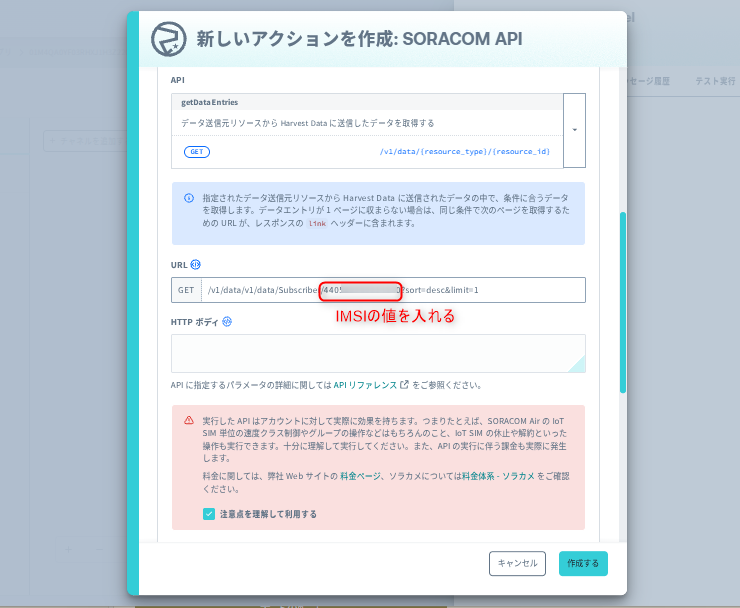
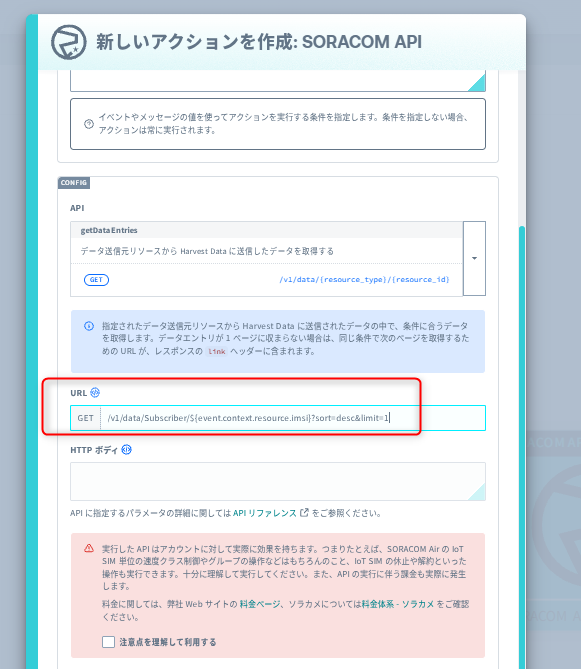
[modify] 最後まで作成

diff --git a/03-flux-app.md b/03-flux-app.md
@@ -95,9 +95,13 @@
 ## 3-2. AI アクションでご当地情報を生成する
 
 1. 3-1 で作成した `harvest-data-output` チャネルを開き、「アクション」タブから「＋アクションを追加」→ **AI アクション** を選択
-2. モデルを選択（テキスト生成ができるもの）
-3. **実行条件**：空のまま（どのクリックでも動かす）
-4. **プロンプト** を設定
+   ![AIアクションの追加1](./image/03-13.png)
+   ![AIアクションの追加2](./image/03-14.png)
+
+2. モデルを選択（例では`Amazon Bedrock – Amazon Nova Lite`を選択）
+   ![AIモデル](./image/03-15.png)
+
+3. **プロンプト** を設定
 
 ### プロンプト例
 
@@ -119,10 +123,18 @@
 - 全体で400文字以内
 - 確実でない情報は「〜と言われています」など断定しない表現にする
 - 余計な前置きは書かない
+- 改行は使わず、改行したい位置には「\n」という2文字を書く（全体を1行で出力する）
+- ダブルクォーテーション（"）は使わない
 ```
 
-5. **出力設定**：「結果を次のアクションに渡す」を有効にする（設定名は画面表記に合わせてください）
-6. 保存
+　　![プロント](./image/03-16.png)
+
+4. **OUTPUT** を以下のように設定する
+   - 「アクションのアウトプットを別のチャネルに送信する」：ON
+   - 送信先チャネル：「新しくチャネルを作成する」→ チャネル名 `ai-output`
+     ![出力指定](./image/03-17.png)
+
+5. 「作成する」をクリックして保存する
 
 > ✅ `${payload.lat}` / `${payload.lon}` は、3-1 の手順5で「データを変換する」に設定したキー名です。
 
@@ -130,7 +142,9 @@
 
 ## 3-3. Webhook アクションで Discord に投稿する
 
-1. AI アクションの後ろに **Webhook アクション** を追加
+1. 3-2 で作成した `ai-output` チャネルを開き、「アクション」タブから「＋アクションを追加」→ **Webhook アクション** を選択
+   ![Webhookアクション1](./image/03-18.png)
+   ![Webhookアクション2](./image/03-19.png)
 2. 以下のように設定
 
 | 項目     | 設定値                           |
@@ -144,33 +158,27 @@
 ```json
 {
   "username": "ご当地ボタン",
-  "content": "🔘 ボタンが押されました！\n\n${payload.output.message}"
+  "content": "🔘 ボタンが押されました！\n\n${payload.output.text}"
 }
 ```
 
-> ✅ AI アクションの出力がどの変数で参照できるかは、実行履歴で AI アクションの出力を見て確認し、`${payload.output.message}` の部分を読み替えてください。
+　![webhookの設定](./image/03-20.png)
+
+> ✅ AI アクションの出力は `{"output":{"text":"..."}, "usage":{...}}` の形で次のチャネルに届くため、生成された文章は `${payload.output.text}` で参照できます。
 >
-> ⚠ Discord の `content` は2000文字までです。プロンプトで文字数を制限しておくと安心です。また、AIの出力に `"` や改行が含まれるとJSONが壊れる場合があるので、うまく投稿されないときは実行履歴でリクエスト内容を確認しましょう。
+> ⚠ Discord の `content` は2000文字までです。プロンプトで文字数を制限しておくと安心です。
+>
+> ⚠ `${payload.output.text}` はそのままボディに埋め込まれるため、AI の出力に改行や `"` が含まれると JSON が壊れ、Discord から `400 The request body contains invalid JSON.` が返ります。3-2 のプロンプトで「改行の代わりに `\n` と書く」「`"` を使わない」と指示しているのはこのためです。エラーになった場合は、実行履歴で Webhook の入力（`body`）を確認しましょう。
 
 4. 保存
 
 ## 3-4. 動かしてみよう 🎉
 
-1. 白ボタンを押す（シングル・ダブル・長押しのどれでも OK）
+1. ボタンを押す（シングル・ダブル・長押しのどれでも OK）
 2. 数十秒ほど待つ
 3. Discord のチャンネルに、ご当地情報が投稿されれば成功！
-
-### 投稿イメージ
-
-```
-🔘 ボタンが押されました！
-
-📍 推定エリア：福岡県北九州市小倉北区
-🍜 ご当地グルメ：焼うどん（発祥の地と言われています）、ぬか炊き
-🏯 おすすめスポット：小倉城、旦過市場
-💡 ちょっとした豆知識：……
-```
+   ![投稿](./image/03-21.png)
 
 ---
 
-[← 2. SIM グループを設定して簡易位置測位を有効にする](./02-sim-group-location.md) ｜ [目次](./README.md) ｜ [7. うまくいかないときは →](./07-troubleshooting.md)
+[← 2. SIM グループを設定して簡易位置測位を有効にする](./02-sim-group-location.md) ｜ [目次](./README.md) ｜ [4. 後片付け →](./04-cleanup.md)

diff --git a/00-introduction.md b/00-introduction.md
@@ -26,18 +26,18 @@ SORACOM LTE-M Button（通称「白ボタン」）を押すと、ボタンのお
 
 ## 所要時間の目安
 
-約60〜90分
+約60分
 
 ## 事前準備
 
 ### 必要なもの
 
-| 項目       | 内容                                                                   |
-| ---------- | ---------------------------------------------------------------------- |
-| デバイス   | SORACOM LTE-M Button for Enterprise（白ボタン）※簡易位置測位対応モデル |
-| アカウント | SORACOM アカウント（スイッチユーザー先は管理者が用意）                  |
-| Discord    | 投稿先チャンネルの閲覧ができること（Webhook URL は管理者が用意）       |
-| PC         | ブラウザが使えるもの                                                   |
+| 項目       | 内容                                                                               |
+| ---------- | ---------------------------------------------------------------------------------- |
+| デバイス   | SORACOM LTE-M Button for Enterprise（白ボタン）※簡易位置測位対応モデル(運営で用意) |
+| アカウント | SORACOM アカウント（スイッチユーザー先は管理者が用意）                             |
+| Discord    | 投稿先チャンネルの閲覧ができること（Webhook URL は管理者が用意）                   |
+| PC         | ブラウザが使えるもの                                                               |
 
 ### Discord の Webhook URL を受け取る
 

diff --git a/README.md b/README.md
@@ -6,7 +6,5 @@
 2. [1. スイッチユーザーで管理者アカウントに入る](./01-switch-user.md)
 3. [2. SIM グループを設定して簡易位置測位を有効にする](./02-sim-group-location.md)
 4. [3. SORACOM Flux アプリを作成して動かす](./03-flux-app.md)
-5. [7. うまくいかないときは](./07-troubleshooting.md)
-6. [8. 発展課題（時間が余った人向け）](./08-advanced.md)
-7. [9. 後片付け](./09-cleanup.md)
-8. [参考リンク](./10-references.md)
+5. [4. 後片付け](./04-cleanup.md)
+6. [参考リンク](./05-references.md)

diff --git a/04-cleanup.md b/04-cleanup.md
@@ -1,0 +1,13 @@
+# 4. 後片付け
+
+ハンズオン終了後、不要な費用が発生しないように以下を見直しましょう。
+
+- Flux アプリの無効化または削除
+  ![Fluxアプリの削除](./image/04-01.png)
+- 自分の SIM グループの簡易位置測位機能・Harvest Data の OFF
+  ![簡易位置測位機能OFF](./image/04-02.png)
+  ![Harvest DataOFF](./image/04-03.png)
+
+---
+
+[← 3. SORACOM Flux アプリを作成して動かす](./03-flux-app.md) ｜ [目次](./README.md) ｜ [参考リンク →](./05-references.md)

diff --git a/05-references.md b/05-references.md
@@ -6,4 +6,4 @@
 
 ---
 
-[← 9. 後片付け](./09-cleanup.md) ｜ [目次](./README.md)
+[← 4. 後片付け](./04-cleanup.md) ｜ [目次](./README.md)
